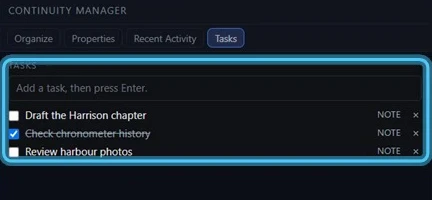
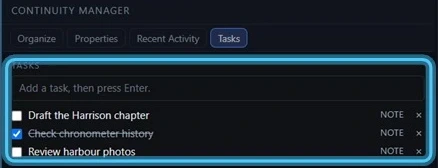
fix(site): redesign refinement - accurate storage and Recent Activity copy, consistent product stills, mobile and dark-mode polish - prepared locally, NOT FOR DEPLOYMENT
Consolidated refinement of 6f5275f under the Human Owner's brief of 2026-11-08, supplied through
Lex. D1-D6 and the approved visual direction are unchanged. Local only; the WHC-1 Stage E
publication freeze remains in force and nothing is pushed or published.

Editorial and factual:
- Recent Activity no longer promises that the last document or session comes back (the 0.5.1
  release page lists "Your last session may not reopen"); it now says what the panel does.
- Storage: files stay in the Workspace folder and remain usable with other programs; Workspace
  Navigator keeps its own records in a reserved .workspace folder in each Project (release page;
  app/server.js workspace roots; app/lifecycle .workspace state directory).
- Privacy heading matches the release page: no telemetry, usage analytics or built-in sharing.
- Footer carries D6's two publisher lines exactly; the Microsoft statement stays on About only
  (existing site copy since d46520a; no governance record states it).
- One release label: "Beta release" in the footer and "View beta release details" on OS Map.

Product imagery (all still from the published Concept Video; nothing drawn or altered):
- Recent Activity, Properties and Tasks now come from the video's "Coming Back" scene, where the
  video outlines each panel in turn, so the three carry the same outline and the same framing
  (panel header, tabs and outlined content).
[…]

diff --git a/src/routes/index.tsx b/src/routes/index.tsx
@@ -67,7 +67,7 @@ const BEARINGS: { kicker: string; title: string; text: string; shot: Shot }[] = 
   {
     kicker: "See where you were",
     title: "Recent Activity",
-    text: "Open a Project again to pick up from the document you last had open. Recent Activity lists the files, notes and websites you used, most recent first.",
+    text: "Recent Activity lists the files, notes and websites you've used in the Project, most recent first, so you can pick up where you left off.",
     shot: SHOTS.recent,
   },
   {
@@ -124,7 +124,7 @@ const TRUST: { icon: LucideIcon; title: string; text: string }[] = [
   {
     icon: HardDrive,
     title: "Your projects stay on your computer",
-    text: "Your work stays in ordinary folders that you can keep using with other programs.",
+    text: "Your files stay in your Workspace folder, and you can keep using them with other programs. Workspace Navigator keeps its own records for each Project in a reserved .workspace folder inside it.",
   },
   {
     icon: UserRound,
@@ -133,7 +133,7 @@ const TRUST: { icon: LucideIcon; title: string; text: string }[] = [
   },
   {
     icon: EyeOff,
-    title: "No telemetry or usage analytics",
+    title: "No telemetry, usage analytics or built-in sharing",
     text: "Workspace Navigator doesn't send your projects, documents or notes to other people or other computers.",
   },
 ];
@@ -144,7 +144,7 @@ function HomePage() {
       {/* 1 · Hero: the approved positioning over the product itself. */}
       <section className="relative overflow-hidden bg-blueprint text-hero-foreground">
         <CompassRose className="pointer-events-none absolute -right-24 -top-28 h-[34rem] w-[34rem] text-hero-accent/30 sm:-right-10" />
-        <div className="relative mx-auto max-w-6xl px-4 pb-0 pt-14 sm:px-6 sm:pt-20">
+        <div className="relative mx-auto max-w-6xl px-4 pb-0 pt-10 sm:px-6 sm:pt-20">
           <div className="mx-auto max-w-3xl text-center">
             <p className="inline-flex items-center gap-2 rounded-full border border-white/15 bg-white/5 px-3 py-1 text-xs font-medium text-hero-muted">
               <span className="h-1.5 w-1.5 rounded-full bg-hero-accent" aria-hidden="true" />
@@ -199,9 +199,10 @@ function HomePage() {
             />
             <ProductShot
               shot={SHOTS.window}
+              narrow={SHOTS.windowNarrow}
               priority
               rounded="rounded-t-xl sm:rounded-t-2xl"
-              className="relative border-b-0"
+              className="relative max-h-[26rem] border-b-0 sm:max-h-none"
             />
             <figcaption className="sr-only">
               Workspace Navigator with a fictional sample Project. Still from the Concept Video.
@@ -213,7 +214,7 @@ function HomePage() {
       {/* 2 · The problem, in the Concept Video's words, and the answer. */}
       <section className="relative overflow-hidden">
         <div className="bg-grid-faint absolute inset-0 -z-10 opacity-60" aria-hidden="true" />
-        <div className="mx-auto max-w-6xl px-4 py-20 sm:px-6 sm:py-24">
+        <div className="mx-auto max-w-6xl px-4 py-14 sm:px-6 sm:py-24">
           <div className="mx-auto max-w-2xl text-center">
             <p className="text-xs font-semibold uppercase tracking-[0.18em] text-primary">
               Why continuity matters
@@ -256,7 +257,7 @@ function HomePage() {
 
       {/* 3 · The three bearings, each with the part of the app that provides it. */}
       <section className="border-y border-border/60 bg-surface/50">
-        <div className="mx-auto max-w-6xl px-4 py-20 sm:px-6 sm:py-24">
+        <div className="mx-auto max-w-6xl px-4 py-14 sm:px-6 sm:py-24">
           <div className="max-w-2xl">
             <p className="text-xs font-semibold uppercase tracking-[0.18em] text-primary">
               Your Continuity Compass
@@ -288,7 +289,7 @@ function HomePage() {
                   <p className="mt-2 text-sm leading-relaxed text-muted-foreground">{b.text}</p>
                 </div>
                 <div className="mt-auto px-4 pb-4">
-                  <ProductShot shot={b.shot} rounded="rounded-lg" className="h-60" />
+                  <ProductShot shot={b.shot} rounded="rounded-lg" className="sm:h-60" />
                 </div>
               </article>
             ))}
@@ -297,7 +298,7 @@ function HomePage() {
       </section>
 
       {/* 4 · Everything a Project needs, in one window. */}
-      <section className="mx-auto max-w-6xl px-4 py-20 sm:px-6 sm:py-24">
+      <section className="mx-auto max-w-6xl px-4 py-14 sm:px-6 sm:py-24">
         <div className="mx-auto max-w-2xl text-center">
           <p className="text-xs font-semibold uppercase tracking-[0.18em] text-primary">
             One window
@@ -316,7 +317,7 @@ function HomePage() {
               key={title}
               className="group flex flex-col overflow-hidden rounded-2xl border border-border/70 bg-card shadow-sm"
             >
-              <div className="flex items-start gap-4 p-6">
+              <div className="flex items-start gap-4 p-5 sm:p-6">
                 <span className="flex h-10 w-10 shrink-0 items-center justify-center rounded-lg bg-accent text-primary">
                   <Icon className="h-5 w-5" aria-hidden="true" />
                 </span>
@@ -325,7 +326,7 @@ function HomePage() {
                   <p className="mt-1.5 text-sm leading-relaxed text-muted-foreground">{text}</p>
                 </div>
               </div>
-              <div className="mt-auto max-h-72 overflow-hidden bg-[linear-gradient(180deg,var(--color-surface),var(--color-accent))] px-6 pt-2">
+              <div className="mt-auto hidden max-h-72 overflow-hidden bg-[linear-gradient(180deg,var(--color-surface),var(--color-accent))] px-6 pt-2 sm:block">
                 <ProductShot shot={shot} rounded="rounded-t-lg" className="border-b-0" />
               </div>
             </article>
@@ -342,7 +343,7 @@ function HomePage() {
 
       {/* 5 · Who it's for, then the video. */}
       <section id="video" className="scroll-mt-20 bg-blueprint text-hero-foreground">
-        <div className="mx-auto max-w-6xl px-4 py-20 sm:px-6 sm:py-24">
+        <div className="mx-auto max-w-6xl px-4 py-14 sm:px-6 sm:py-24">
           <div className="grid items-center gap-12 lg:grid-cols-[minmax(0,0.8fr)_minmax(0,1.2fr)]">
             <div>
               <p className="text-xs font-semibold uppercase tracking-[0.18em] text-hero-accent">
@@ -366,7 +367,7 @@ function HomePage() {
                 ))}
               </ul>
             </div>
-            <div className="dark-video [&_figcaption]:text-hero-muted [&_figcaption_span.text-foreground]:text-hero-foreground [&_#wn-video-description]:text-hero-muted [&_a]:text-hero-accent">
+            <div className="[&_select]:border-white/20 [&_select]:bg-white/10 [&_select]:text-hero-foreground [&_select]:[color-scheme:dark] [&_figcaption]:text-hero-muted [&_figcaption_span.text-foreground]:text-hero-foreground [&_#wn-video-description]:text-hero-muted [&_a]:text-hero-accent">
               <PromoVideo video={WN_CONCEPT_VIDEO} />
             </div>
           </div>
@@ -374,7 +375,7 @@ function HomePage() {
       </section>
 
       {/* 6 · Trust, and what the beta is. */}
-      <section className="mx-auto max-w-6xl px-4 py-20 sm:px-6 sm:py-24">
+      <section className="mx-auto max-w-6xl px-4 py-14 sm:px-6 sm:py-24">
         <div className="grid gap-12 lg:grid-cols-2">
           <div>
             <p className="text-xs font-semibold uppercase tracking-[0.18em] text-primary">

diff --git a/src/components/product-visuals.tsx b/src/components/product-visuals.tsx
@@ -5,8 +5,14 @@ import { cn } from "@/lib/utils";
 // Every Workspace Navigator image on the site is a still taken from the published Concept Video
 // (public/media/workspace-navigator-concept-video-v1.mp4), which shows the application itself
 // working on a fictional sample Project, "Boats and Navigation". Stills are cropped from the
-// application window only; nothing in them is drawn or altered. Decorative graphics below are
-// plain SVG line art and never imitate the application.
+// application window only; nothing in them is drawn or altered. The three Continuity Manager stills
+// (Recent Activity, Properties, Tasks) are taken from the video's "Coming Back" scene, which outlines
+// each panel in turn, so all three carry the same outline. Decorative graphics below are plain SVG
+// line art and never imitate the application.
+//
+// Native screenshots of the released 0.5.1 build would be sharper; they need the application run
+// with a fictional Workspace, which is outside this site's work. Stills are therefore never shown
+// wider than their natural size.
 
 export type Shot = { src: string; width: number; height: number; alt: string };
 
@@ -18,6 +24,13 @@ export const SHOTS = {
     width: 1340,
     height: 752,
     alt: "Workspace Navigator showing a sample Project, Boats and Navigation: the Explorer with the Project's documents and folders, the Continuity Manager's Recent Activity, a Word document open in the File Editor, the Project's notes, and a saved website open in the built-in browser.",
+  },
+  // The same moment as `window`, cropped to the Explorer and Continuity Manager for narrow screens.
+  windowNarrow: {
+    src: `${SHOT_DIR}/wn-window-narrow.webp`,
+    width: 432,
+    height: 582,
+    alt: "Workspace Navigator showing a sample Project, Boats and Navigation: the Explorer with the Project's documents and folders, and the Continuity Manager's Recent Activity.",
   },
   explorer: {
     src: `${SHOT_DIR}/wn-explorer.webp`,
@@ -34,7 +47,7 @@ export const SHOTS = {
   notes: {
     src: `${SHOT_DIR}/wn-notes.webp`,
     width: 420,
-    height: 265,
+    height: 150,
     alt: "The Project's notes, with three short notes about tide times and the lighthouse gallery.",
   },
   browser: {
@@ -51,32 +64,37 @@ export const SHOTS = {
   },
   recent: {
     src: `${SHOT_DIR}/wn-recent.webp`,
-    width: 432,
-    height: 342,
-    alt: "The Continuity Manager's Recent Activity, listing the files, notes and websites used in the Project, most recent first.",
+    width: 438,
+    height: 252,
+    alt: "The Continuity Manager's Recent Activity tab, listing the notes, files and websites used in the Project, most recent first.",
   },
   properties: {
     src: `${SHOT_DIR}/wn-properties.webp`,
-    width: 432,
-    height: 342,
+    width: 438,
+    height: 329,
     alt: "The Continuity Manager's Properties tab, showing the Project's Purpose, Research guide for a coastal navigation talk, and its Project Notes.",
   },
   tasks: {
     src: `${SHOT_DIR}/wn-tasks.webp`,
-    width: 432,
-    height: 200,
+    width: 438,
+    height: 168,
     alt: "The Continuity Manager's Tasks tab with three tasks, one of them ticked as done.",
   },
 } satisfies Record<string, Shot>;
 
-/** A product still in a quiet frame. `priority` loads it eagerly (above the fold). */
+/**
+ * A product still in a quiet frame, never wider than the still itself. `priority` loads it eagerly
+ * (above the fold). `narrow`, when given, is served instead on screens up to 639px wide.
+ */
 export function ProductShot({
   shot,
+  narrow,
   className,
   priority = false,
   rounded = "rounded-xl",
 }: {
   shot: Shot;
+  narrow?: Shot;
   className?: string;
   priority?: boolean;
   rounded?: string;
@@ -84,21 +102,32 @@ export function ProductShot({
   return (
     <div
       className={cn(
-        "overflow-hidden border border-white/10 bg-[#0b0e16] shadow-[0_24px_60px_-20px_rgba(8,20,40,0.45)] ring-1 ring-black/5",
+        "mx-auto w-full overflow-hidden border border-white/10 bg-[#0b0e16] shadow-[0_24px_60px_-20px_rgba(8,20,40,0.45)] ring-1 ring-black/5",
         rounded,
         className,
       )}
+      style={{ maxWidth: shot.width + 2 }}
     >
-      <img
-        src={shot.src}
-        width={shot.width}
-        height={shot.height}
-        alt={shot.alt}
-        loading={priority ? "eager" : "lazy"}
-        decoding={priority ? "sync" : "async"}
-        {...(priority ? { fetchPriority: "high" as const } : {})}
-        className="block h-auto w-full"
-      />
+      <picture>
+        {narrow && (
+          <source
+            media="(max-width: 639px)"
+            srcSet={narrow.src}
+            width={narrow.width}
+            height={narrow.height}
+          />
+        )}
+        <img
+          src={shot.src}
+          width={shot.width}
+          height={shot.height}
+          alt={shot.alt}
+          loading={priority ? "eager" : "lazy"}
+          decoding={priority ? "sync" : "async"}
+          {...(priority ? { fetchPriority: "high" as const } : {})}
+          className="block h-auto w-full"
+        />
+      </picture>
     </div>
   );
 }

diff --git a/src/components/site-footer.tsx b/src/components/site-footer.tsx
@@ -8,7 +8,7 @@ import { PUBLISHER } from "@/lib/releases";
 // here, marked Coming Soon, only in builds that include the membership scaffolding.
 export function SiteFooter() {
   return (
-    <footer className="mt-24 border-t border-border/60 bg-surface/50">
+    <footer className="mt-16 border-t border-border/60 bg-surface/50 sm:mt-20">
       <div className="mx-auto grid max-w-6xl gap-10 px-4 py-14 sm:grid-cols-2 sm:px-6 lg:grid-cols-[1.4fr_1fr_1fr_1fr]">
         <div>
           <Link
@@ -37,7 +37,7 @@ export function SiteFooter() {
 
         <FooterCol title="Workspace Navigator">
           <FooterLink to="/workspace-navigator">Overview</FooterLink>
-          <FooterLink to="/workspace-navigator/download">Beta download</FooterLink>
+          <FooterLink to="/workspace-navigator/download">Beta release</FooterLink>
           <FooterLink to="/workspace-navigator/concept-video-transcript">
             Video transcript
           </FooterLink>
@@ -46,7 +46,7 @@ export function SiteFooter() {
 
         <FooterCol title="OS Map">
           <FooterLink to="/os-map">Overview</FooterLink>
-          <FooterLink to="/os-map/download">Beta download</FooterLink>
+          <FooterLink to="/os-map/download">Beta release</FooterLink>
           <FooterLink to="/feedback/os-map">Feedback</FooterLink>
         </FooterCol>
 
@@ -70,7 +70,7 @@ export function SiteFooter() {
       <div className="border-t border-border/60">
         <div className="mx-auto flex max-w-6xl flex-col gap-1 px-4 py-6 text-xs text-muted-foreground sm:flex-row sm:items-center sm:justify-between sm:px-6">
           <p>© 2026 {PUBLISHER.name} All rights reserved.</p>
-          <p>PCNav is a brand of {PUBLISHER.name} Not affiliated with Microsoft.</p>
+          <p>PCNav is a brand of {PUBLISHER.name}</p>
         </div>
       </div>
     </footer>

diff --git a/src/routes/os-map/index.tsx b/src/routes/os-map/index.tsx
@@ -92,7 +92,7 @@ function OsMapPage() {
           <div className="mt-8">
             <Button asChild size="lg">
               <Link to="/os-map/download">
-                <FileText /> View Release Details
+                <FileText /> View beta release details
               </Link>
             </Button>
           </div>
@@ -207,11 +207,11 @@ function OsMapPage() {
       {/* CTA */}
       <section className="mx-auto max-w-6xl px-4 pb-24 sm:px-6">
         <div className="rounded-2xl border border-border/70 bg-gradient-to-br from-accent/60 to-surface px-6 py-12 text-center sm:px-12">
-          <h2 className="text-3xl font-semibold tracking-tight sm:text-4xl">OS Map release details</h2>
+          <h2 className="text-3xl font-semibold tracking-tight sm:text-4xl">OS Map 0.1.0 Beta release</h2>
           <p className="mt-3 text-base text-muted-foreground">See the OS Map 0.1.0 Beta release information.</p>
           <Button asChild size="lg" className="mt-6">
             <Link to="/os-map/download">
-              <FileText /> View Release Details
+              <FileText /> View beta release details
             </Link>
           </Button>
         </div>

diff --git a/src/styles.css b/src/styles.css
@@ -115,7 +115,7 @@
 }
 
 .dark {
-  --hero: oklch(0.15 0.035 254);
+  --hero: oklch(0.225 0.045 254);
   --hero-foreground: oklch(0.97 0.006 230);
   --hero-muted: oklch(0.8 0.025 235);
   --hero-accent: oklch(0.78 0.11 210);
@@ -166,4 +166,16 @@
     outline-offset: 2px;
     border-radius: 4px;
   }
+}
+
+/* Dark mode: the navy bands sit a step lighter than the page, with a hairline edge. */
+.dark .bg-blueprint {
+  box-shadow:
+    inset 0 1px 0 oklch(1 0 0 / 0.08),
+    inset 0 -1px 0 oklch(1 0 0 / 0.08);
+}
+
+/* The footer supplies the space below a page, so a final section's bottom padding is not doubled. */
+main > section:last-child.pb-24 {
+  padding-bottom: 0;
 }
